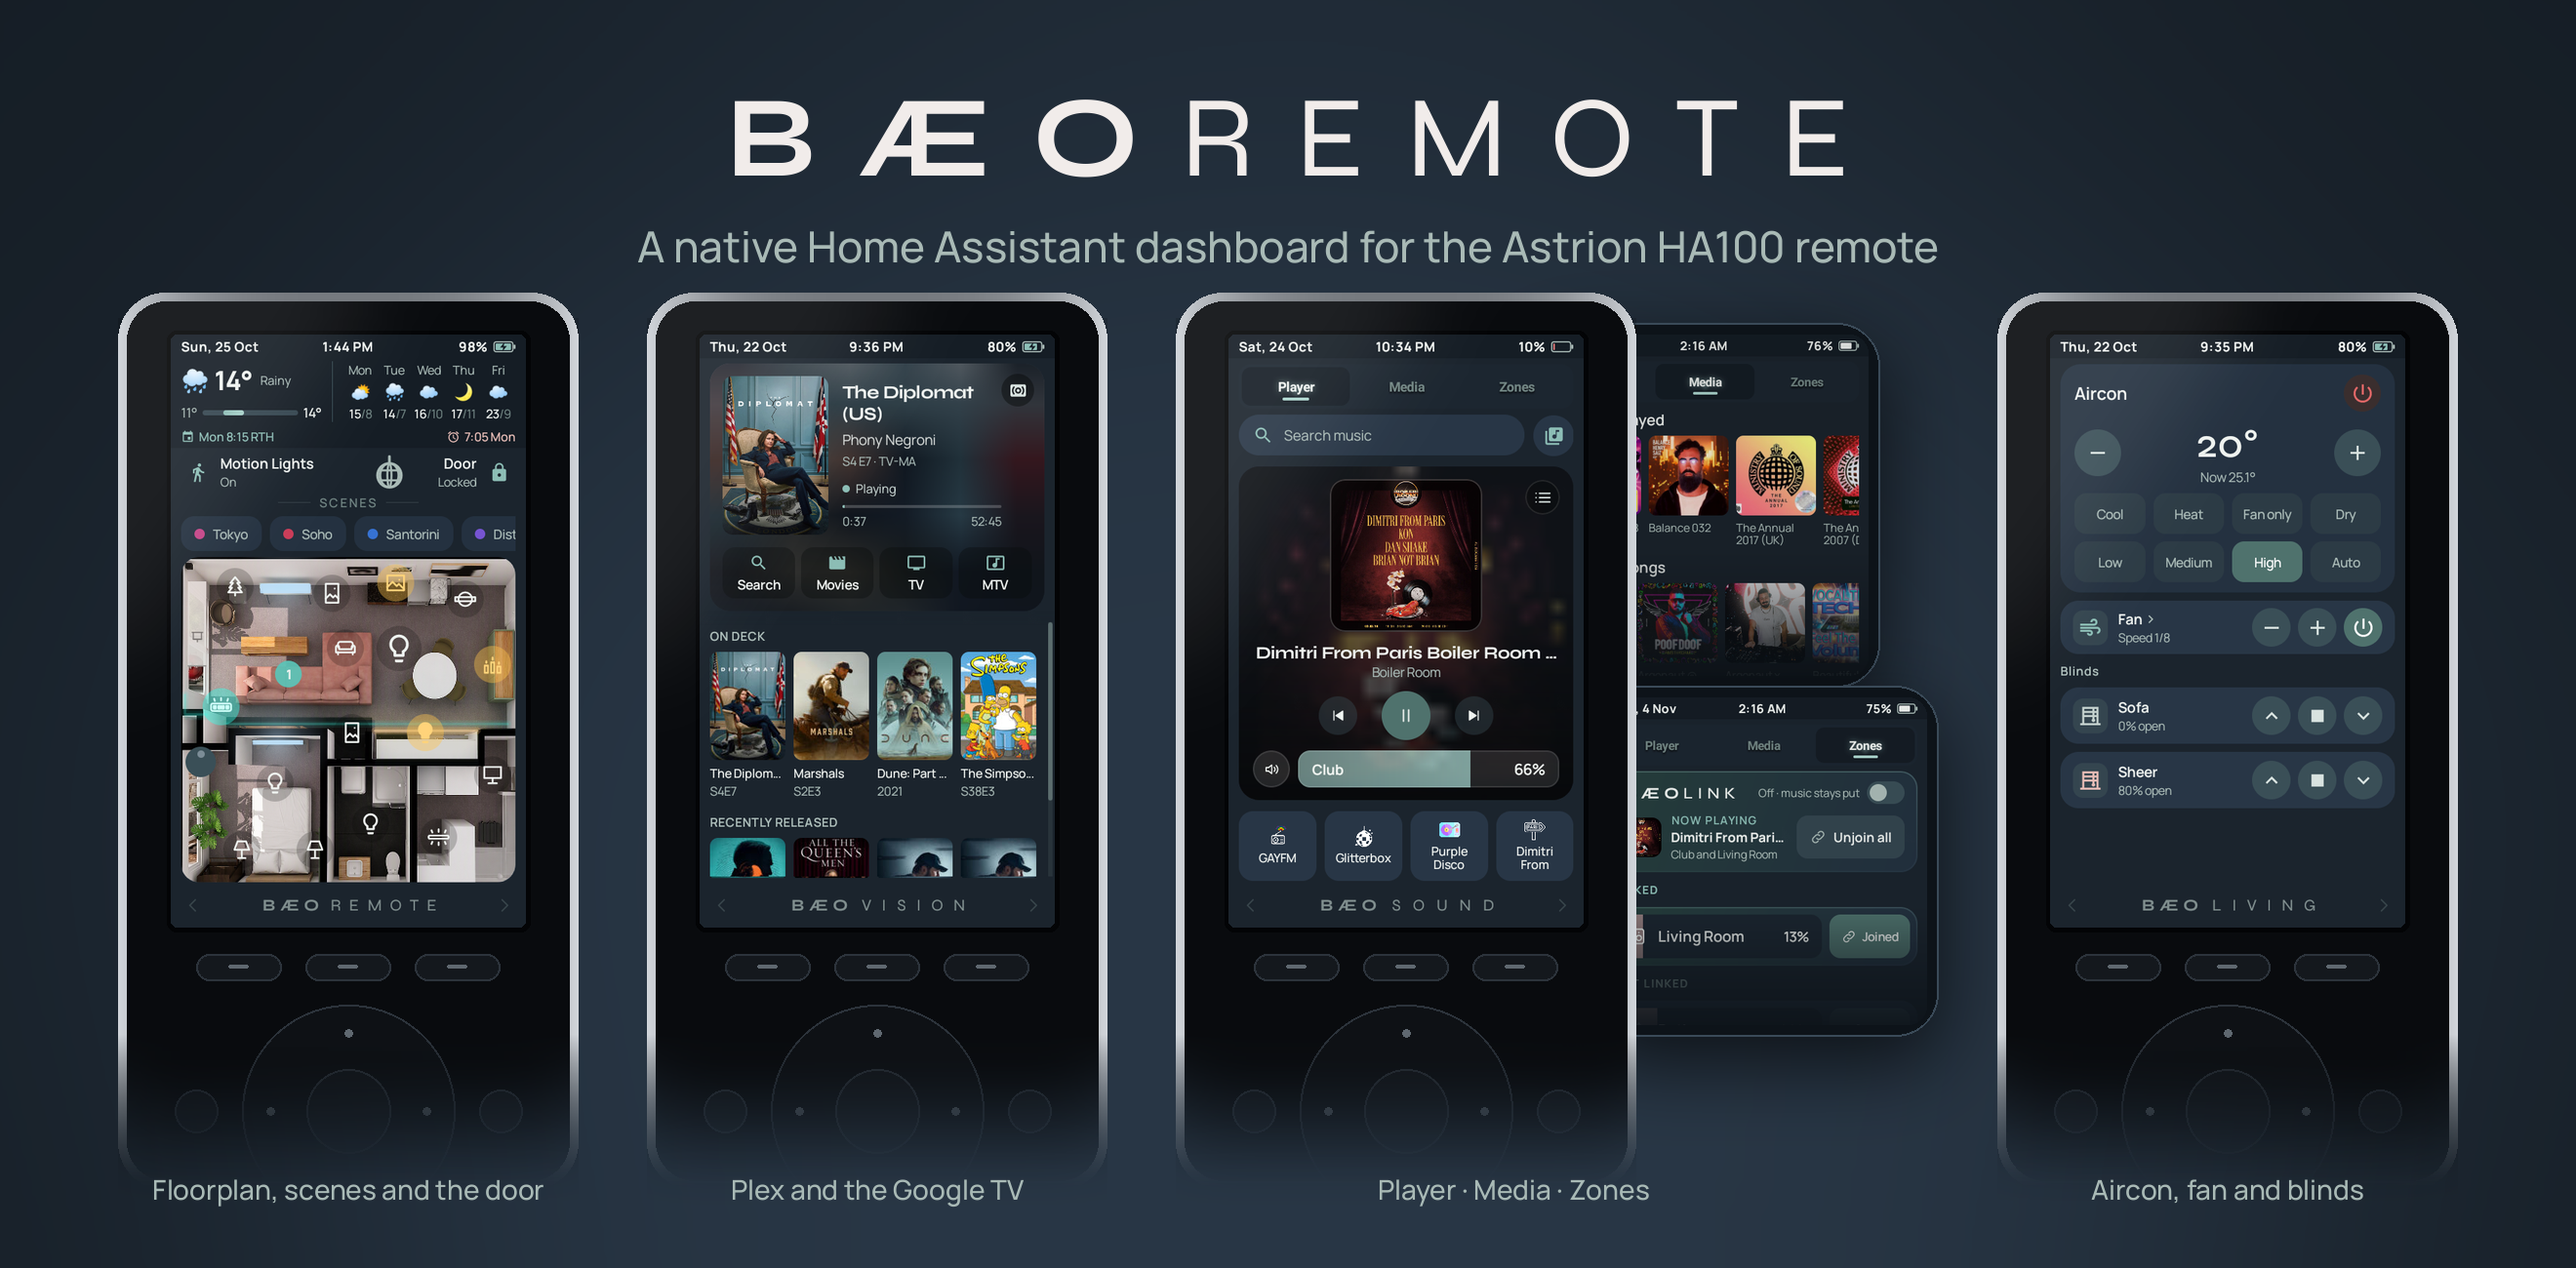
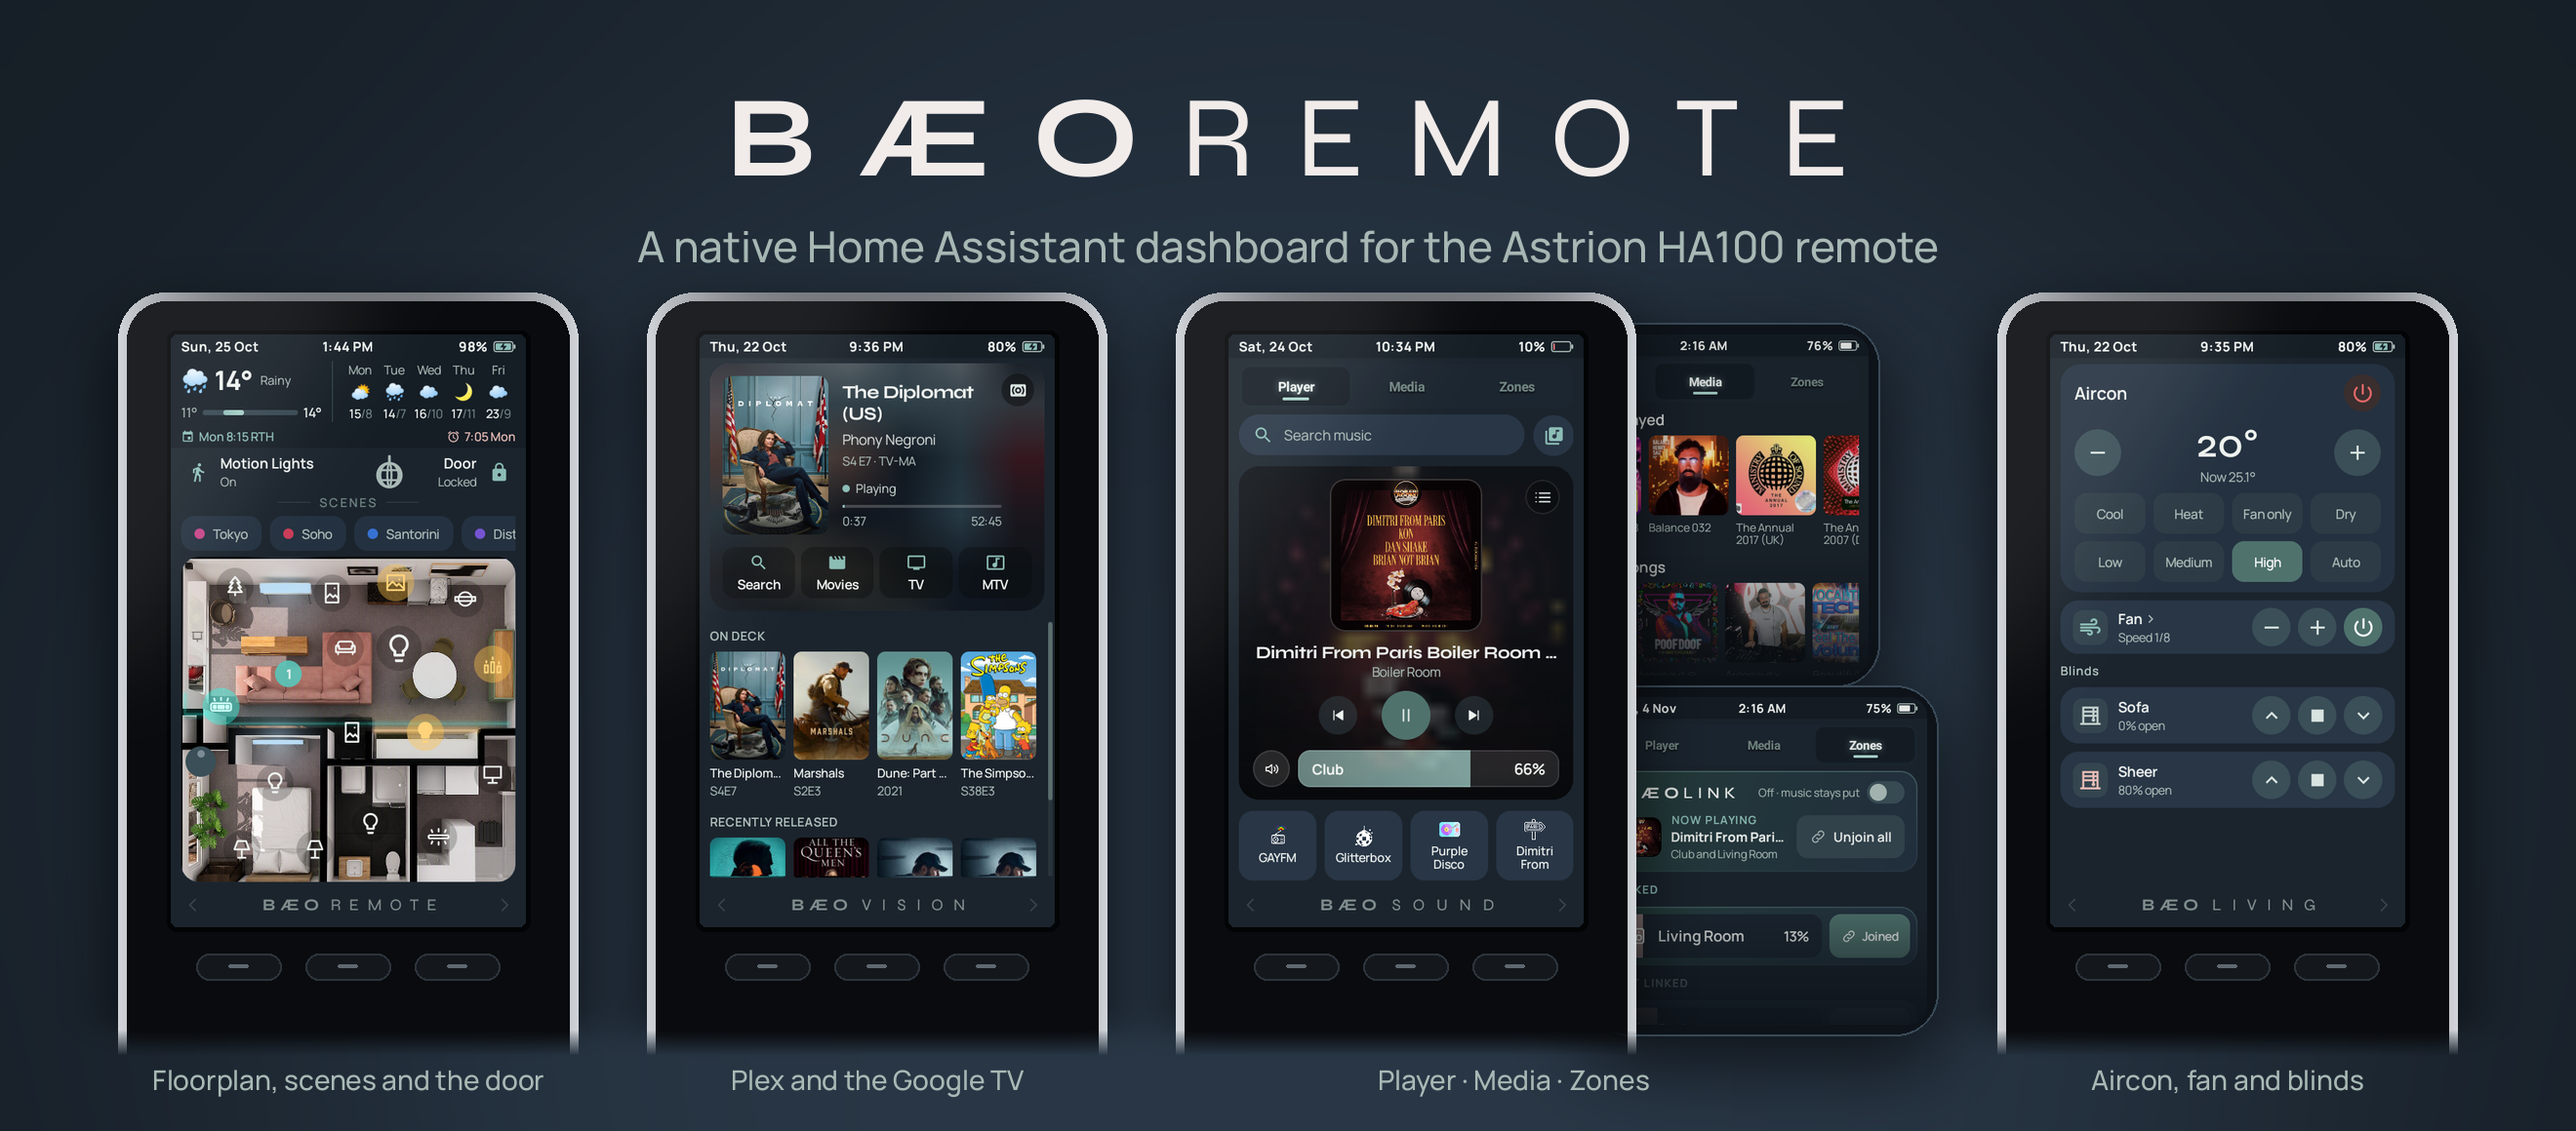
Hero: the top of the real remote, cut hard below the first keys

Changed region(s): [[0.0311, 0.1862, 0.9629, 0.9621], [0.2795, 0.0621, 0.7144, 0.1552]]

diff --git a/scripts/make_hero.py b/scripts/make_hero.py
@@ -11,7 +11,7 @@ OUT = Path(sys.argv[2])
 SHOTS = REPO / "screenshots"
 FONTS = REPO / "app/src/main/res/font"
 
-W, H = 2640, 1300
+W, H = 2640, 1160
 BG_IN, BG_OUT = (40, 54, 69), (22, 30, 38)
 INK, MUTE, LINE = (241, 236, 234), (169, 186, 182), (58, 74, 88)
 BODY = (13, 19, 25)
@@ -76,27 +76,28 @@ def phone(canvas, shot, x, y, scale, crop_h=None, fade=False, dim=0.0, bezel=20,
 
 
 def remote(canvas, shot, x, y, scale):
-    """The top of a real HA100: silver rim, glossy black front, the screen, then
-    the first keys and the D-pad, fading out. Returns the screen box."""
+    """The top of a real HA100: silver rim, glossy black front, the screen and the
+    first row of keys, fading out. Returns the screen box and body height."""
     img = Image.open(shot).convert("RGB")
     sw, sh = int(img.width * scale), int(img.height * scale)
     img = img.resize((sw, sh), Image.LANCZOS)
-    side, top_m, below, rim = int(sw * 0.15), int(sw * 0.12), int(sw * 0.74), 9
+    side, top_m, below, rim = int(sw * 0.15), int(sw * 0.12), int(sw * 0.36), 9
     bw, bh = sw + side * 2, top_m + sh + below
+    th = bh + 160  # drawn taller and cut, so the bottom corners never show
     pad = 80
-    layer = Image.new("RGBA", (bw + pad * 2, bh + pad * 2), (0, 0, 0, 0))
-    ImageDraw.Draw(layer).rounded_rectangle((pad, pad + 26, pad + bw, pad + bh + 26), 46, fill=(0, 0, 0, 175))
+    layer = Image.new("RGBA", (bw + pad * 2, th + pad * 2), (0, 0, 0, 0))
+    ImageDraw.Draw(layer).rounded_rectangle((pad, pad + 26, pad + bw, pad + th + 26), 46, fill=(0, 0, 0, 175))
     layer = layer.filter(ImageFilter.GaussianBlur(34))
 
-    body = Image.new("RGBA", (bw, bh), (0, 0, 0, 0))
+    body = Image.new("RGBA", (bw, th), (0, 0, 0, 0))
     # Brushed-aluminium rim: a horizontal sweep from bright edges to a darker middle.
     alu = Image.new("RGB", (bw, 1))
     for i in range(bw):
         t = abs(i / (bw - 1) - 0.5) * 2
         v = int(118 + 92 * t ** 3)
         alu.putpixel((i, 0), (v, v + 4, v + 9))
-    body.paste(alu.resize((bw, bh)), (0, 0), rounded_mask((bw, bh), 48))
-    fw, fh = bw - rim * 2, bh - rim * 2
+    body.paste(alu.resize((bw, th)), (0, 0), rounded_mask((bw, th), 48))
+    fw, fh = bw - rim * 2, th - rim * 2
     front = Image.new("RGBA", (fw, fh), (9, 11, 14, 255))
     fd = ImageDraw.Draw(front)
     sx, sy = side - rim, top_m - rim
@@ -111,34 +112,25 @@ def remote(canvas, shot, x, y, scale):
         x0 = kx + i * (kw + gapk)
         fd.rounded_rectangle((x0, ky, x0 + kw, ky + kh), kh // 2, fill=key, outline=ring, width=2)
         fd.rounded_rectangle((x0 + kw // 2 - 10, ky + kh // 2 - 2, x0 + kw // 2 + 10, ky + kh // 2 + 1), 2, fill=(95, 104, 112, 255))
-    r = int(sw * 0.3)
-    cx, cy = fw // 2, ky + kh + int(sw * 0.07) + r
-    fd.ellipse((cx - r, cy - r, cx + r, cy + r), fill=(14, 17, 21, 255), outline=ring, width=2)
-    for dx, dy in ((0, -1), (1, 0), (-1, 0), (0, 1)):
-        mx, my = cx + dx * int(r * 0.74), cy + dy * int(r * 0.74)
-        fd.ellipse((mx - 4, my - 4, mx + 4, my + 4), fill=(95, 104, 112, 255))
-    rc = int(r * 0.4)
-    fd.ellipse((cx - rc, cy - rc, cx + rc, cy + rc), fill=key, outline=ring, width=2)
-    for sxk in (cx - r - int(sw * 0.13), cx + r + int(sw * 0.13)):
-        fd.ellipse((sxk - 22, cy - 22, sxk + 22, cy + 22), fill=key, outline=ring, width=2)
     # Gloss: a soft diagonal sheen across the glass.
     sheen = Image.new("L", (fw, fh), 0)
     ImageDraw.Draw(sheen).polygon([(0, 0), (int(fw * 0.55), 0), (0, int(fh * 0.42))], fill=22)
     sheen = sheen.filter(ImageFilter.GaussianBlur(40))
     front = Image.composite(Image.new("RGBA", (fw, fh), (255, 255, 255, 255)), front, sheen)
     body.paste(front, (rim, rim), rounded_mask((fw, fh), 40))
+    body = body.crop((0, 0, bw, bh))
 
-    # Fade the bottom out: the remote carries on below the picture.
+    # A short, hard fade at the cut: the remote carries on below the picture.
     fade = Image.new("L", (1, bh), 255)
-    start = top_m + sh + int(sw * 0.3)
+    start = bh - 26
     for i in range(start, bh):
-        fade.putpixel((0, i), max(0, int(255 * (1 - (i - start) / (bh - start)) ** 1.6)))
+        fade.putpixel((0, i), max(0, int(255 * (1 - (i - start) / (bh - start)))))
     fade = fade.resize((bw, bh))
     a = body.getchannel("A")
     body.putalpha(Image.composite(a, Image.new("L", (bw, bh), 0), fade))
-    sl = layer.crop((pad, pad, pad + bw, pad + bh))
     full = Image.new("L", layer.size, 0)
-    full.paste(fade, (pad, pad + 26))
+    full.paste(Image.new("L", (bw + pad * 2, pad + bh - 26), 255), (0, 0))
+    full = full.filter(ImageFilter.GaussianBlur(14))
     layer.putalpha(Image.composite(layer.getchannel("A"), Image.new("L", layer.size, 0), full))
     canvas.alpha_composite(layer, (x - pad, y - pad))
     canvas.alpha_composite(body, (x, y))
@@ -191,7 +183,7 @@ def main():
     for i, ((shot, caption), x) in enumerate(zip(pages, xs)):
         box = remote(canvas, SHOTS / shot, x, y, scale)
         cx = (box[0] + box[2]) / 2 + (fan / 2 - 40 if i == 2 else 0)
-        d.text((cx - d.textlength(caption, font=fcap) / 2, y + box[4] - 20), caption, font=fcap, fill=MUTE)
+        d.text((cx - d.textlength(caption, font=fcap) / 2, y + box[4] + 6), caption, font=fcap, fill=MUTE)
 
     canvas.convert("RGB").save(OUT, optimize=True)
 
